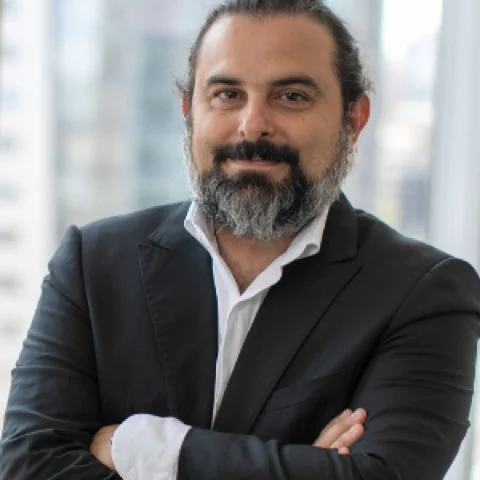
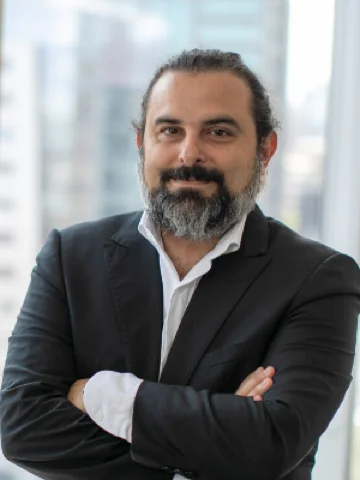
photo

diff --git a/index.html b/index.html
@@ -5,7 +5,7 @@ layout: default
 ---
 
 <section class="intro">
-  <img class="photo" src="/assets/images/luis-marti.webp" width="240" height="240" alt="Portrait of Luis Martí" decoding="async">
+  <img class="photo" src="/assets/images/luis-marti.webp" width="360" height="480" alt="Portrait of Luis Martí" decoding="async">
   <div class="bio">
     <p>
       Hi!, I'm <strong>Luis Martí</strong> — an AI scientist, currently <span data-geo-hide="FR,CL"><strong>Chief Science Officer</strong> at 

diff --git a/_sass/typewriter.scss b/_sass/typewriter.scss
@@ -399,7 +399,8 @@ a.page-link[aria-current="page"] {
 .intro .photo {
   flex: 0 0 auto;
   width: 7rem;
-  height: 7rem;
+  height: auto;
+  aspect-ratio: 3 / 4;
   border: 1px solid var(--ink);
   object-fit: cover;
   background: #fafaf6; // photo backdrop fallback while loading
